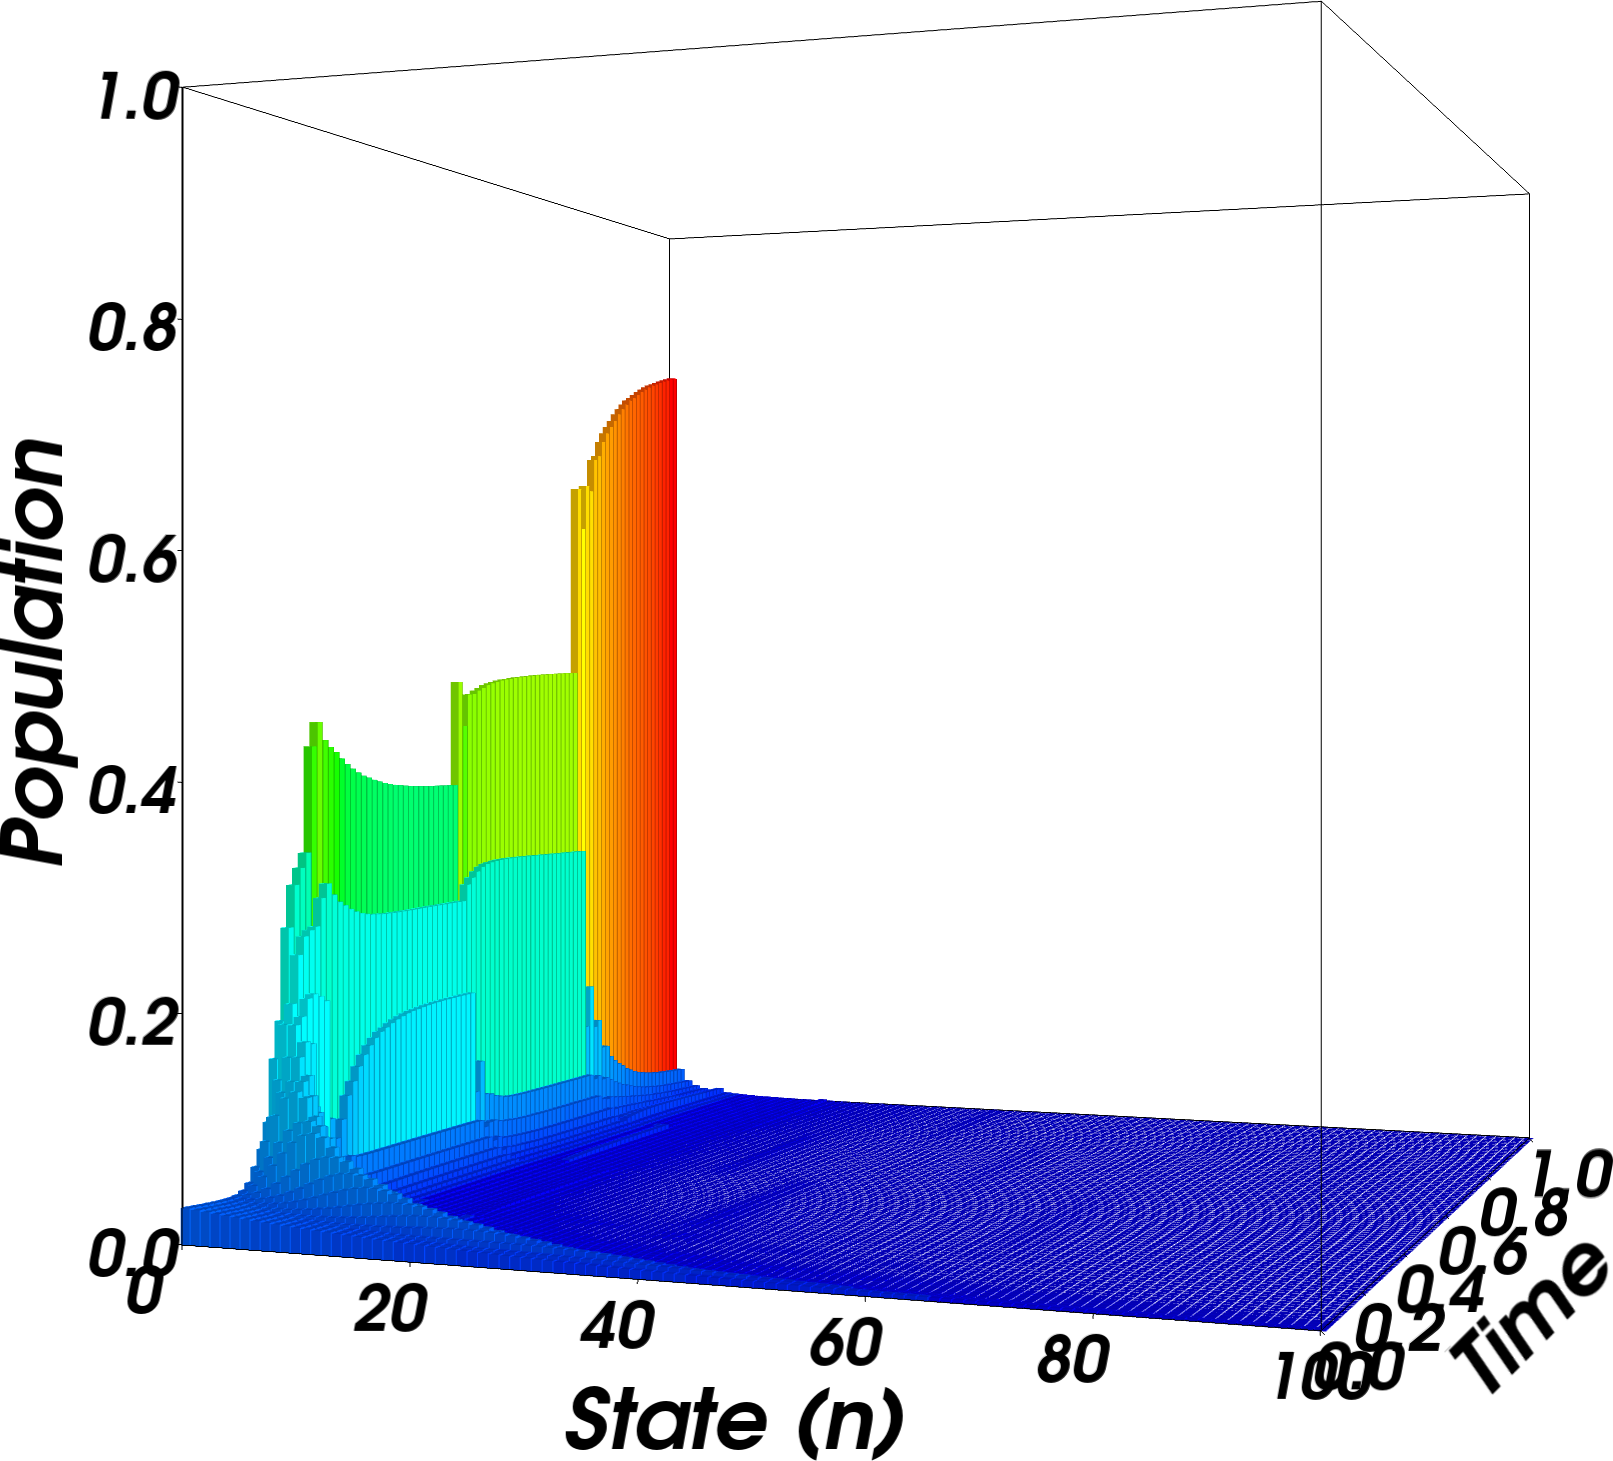
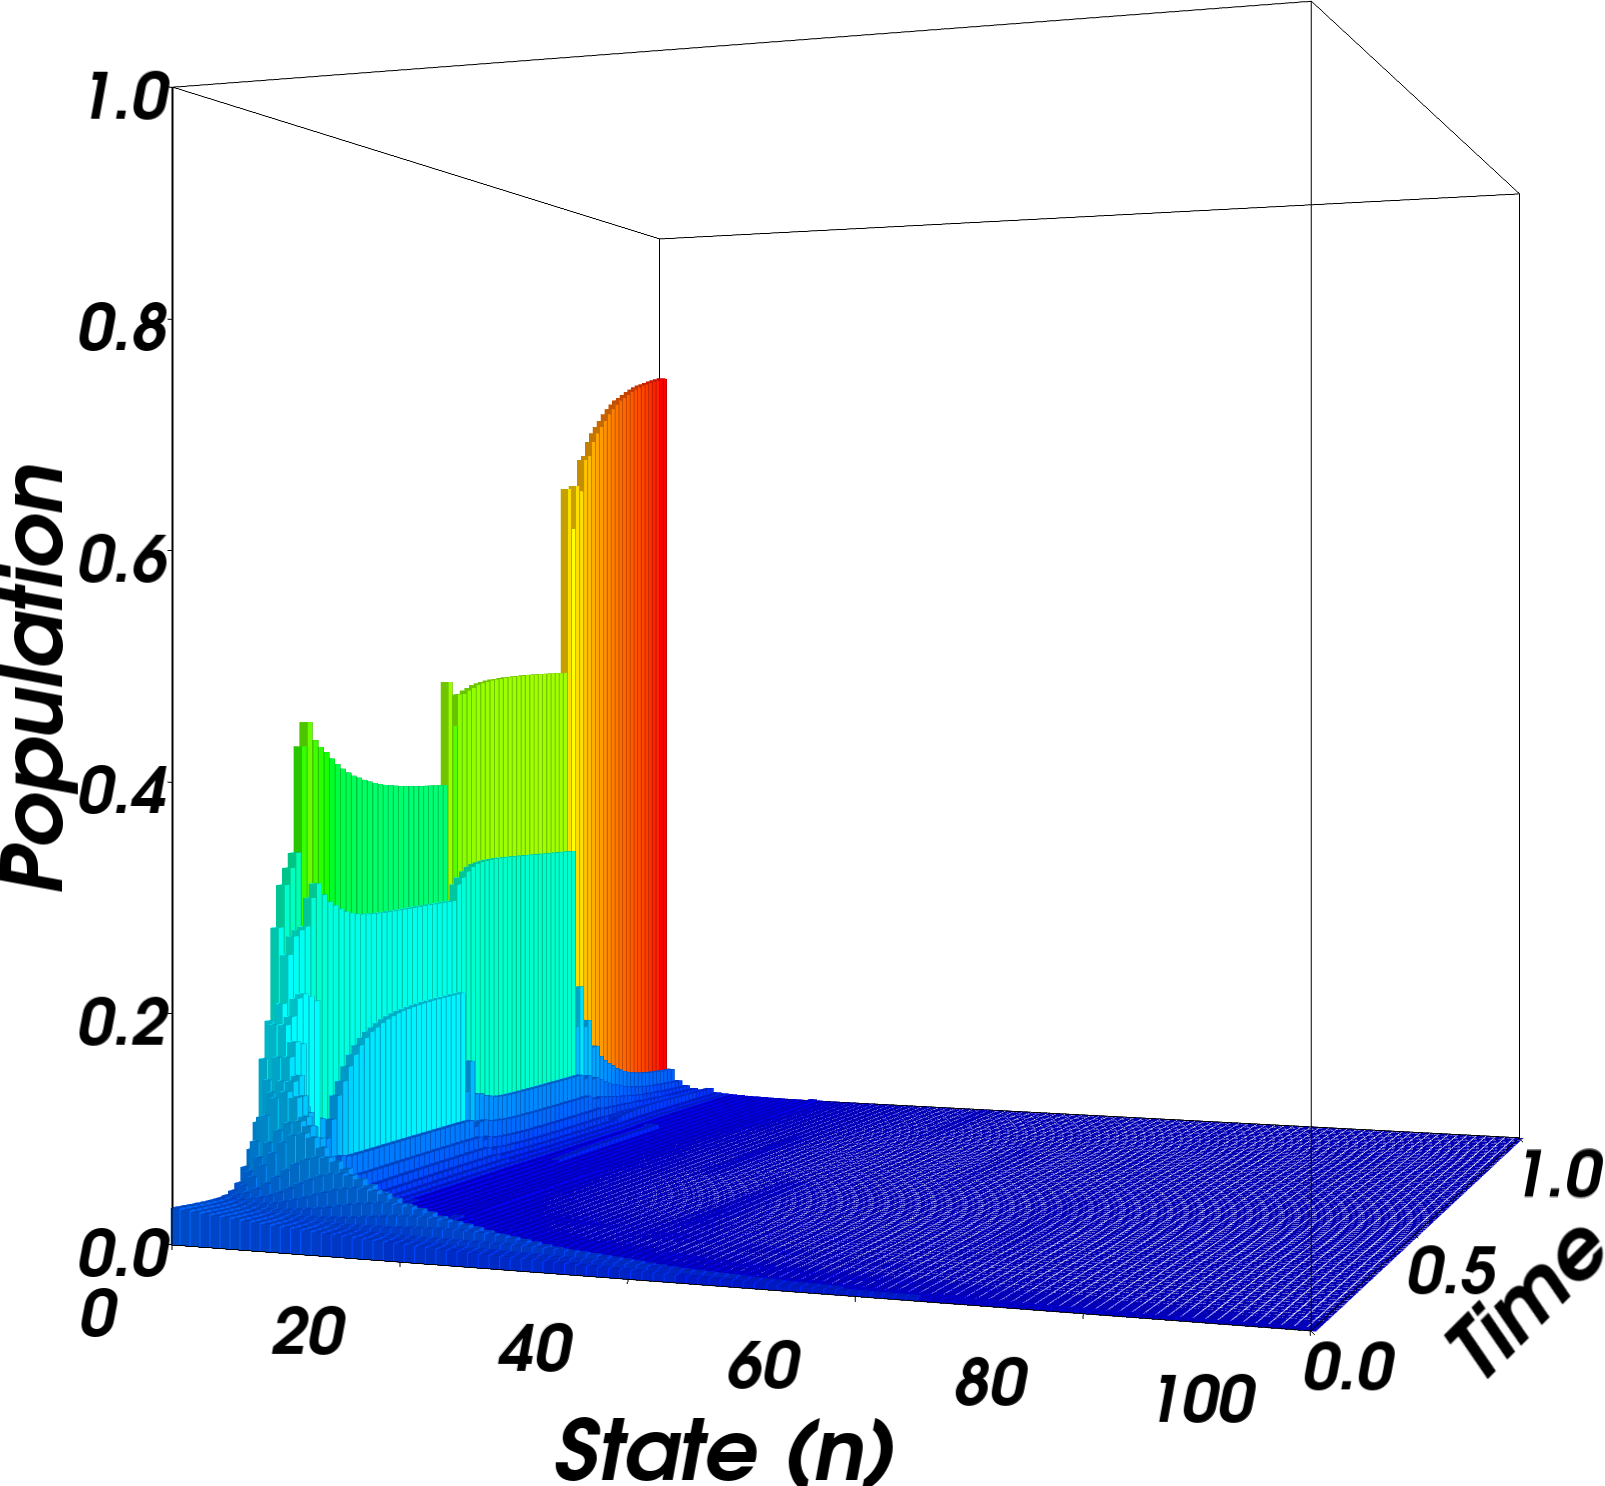
[3dplot] even more

diff --git a/test.py b/test.py
@@ -785,8 +785,8 @@ def main_plot4():
     ps = _load_jsons(names, 'ps')
     ns = _load_jsons(names, 'ns')
 
-    size = 20
-    t_size = 50
+    size = 100
+    t_size = 100
 
     fig = mlab.figure(bgcolor=(1, 1, 1), fgcolor=(0, 0, 0))
 
@@ -807,7 +807,7 @@ def main_plot4():
     ax0.axes.x_axis_visibility = False
     ax0.axes.y_axis_visibility = False
     ax0.axes.z_axis_visibility = True
-    ax0.axes.number_of_labels = 6
+    ax0.axes.number_of_labels = 3
     ax0.axes.use_data_bounds = False
     ax0.axes.bounds = [0, size, 0, size, 0, size]
     ax0.axes.ranges = [0, len(N_fine) - 1, 0, 1, 0, 1]
@@ -841,6 +841,9 @@ def main_plot4():
     ax2.axes.ranges = [0, len(N_fine) - 1, 0, 1, 0, 1]
     ax2.axes.use_ranges = True
     ax2.axes.label_format = '%.0f'
+    ax2.title_text_property.vertical_justification = 'center'
+    ax2.label_text_property.vertical_justification = 'center'
+    ax2.label_text_property.justification = 'right'
 
     mlab.outline(surf, color=(0., 0., 0.),
                  extent=[0, size, 0, size, 0, size])
